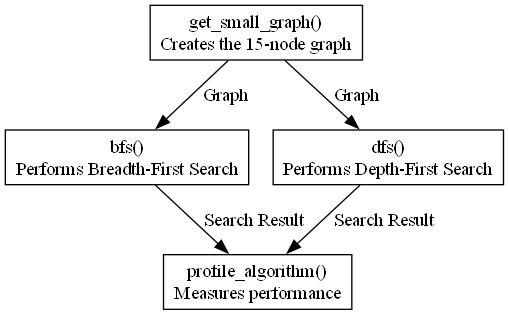
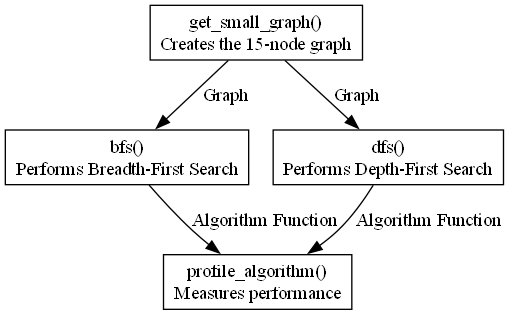
Finalize SLA3 C4 architecture

Changed region(s): [[0.2947, 0.5714, 1.0, 0.8]]

diff --git a/SLA3_25UAM029/code/c2_container.py b/SLA3_25UAM029/code/c2_container.py
@@ -9,24 +9,14 @@ dot = Digraph("C2_Container")
 dot.node("Input", "Graph & Input Setup", shape="box")
 dot.node("BFS", "BFS Search", shape="box")
 dot.node("DFS", "DFS Search", shape="box")
-dot.node("State", "Search State Management", shape="box")
 dot.node("Profile", "Performance Profiling\n& Output", shape="box")
 
 # Flow
 dot.edge("Input", "BFS", label="Graph, Start, Target")
 dot.edge("Input", "DFS", label="Graph, Start, Target")
 
-dot.edge("BFS", "State", label="Visited\nNodes Expanded")
-dot.edge("DFS", "State", label="Visited\nNodes Expanded")
-
-dot.edge("State", "Profile", label="Search Data")
-
-# Output
-dot.edge(
-    "Profile",
-    "Input",
-    label="Search Result\nBest / Average / Worst Time"
-)
+dot.edge("BFS", "Profile", label="Search Result")
+dot.edge("DFS", "Profile", label="Search Result")
 
 # Generate diagram
 dot.render(

diff --git a/SLA3_25UAM029/code/c3_component.py b/SLA3_25UAM029/code/c3_component.py
@@ -16,15 +16,12 @@ dot.node("Target", "Target Node Check", shape="box")
 # BFS flow
 dot.edge("BFS", "Queue", label="Uses")
 dot.edge("Queue", "Visited", label="Processes Nodes")
+dot.edge("BFS", "Target", label="Checks")
 
 # DFS flow
 dot.edge("DFS", "Stack", label="Uses")
 dot.edge("Stack", "Visited", label="Processes Nodes")
-
-# Common search operations
-dot.edge("Visited", "Target", label="Checks")
-dot.edge("Target", "BFS", label="Search Result")
-dot.edge("Target", "DFS", label="Search Result")
+dot.edge("DFS", "Target", label="Checks")
 
 # Generate diagram
 dot.render(

diff --git a/SLA3_25UAM029/code/c4_code.py b/SLA3_25UAM029/code/c4_code.py
@@ -34,8 +34,8 @@ dot.node(
 dot.edge("Graph", "BFS", label="Graph")
 dot.edge("Graph", "DFS", label="Graph")
 
-dot.edge("BFS", "Profile", label="Search Result")
-dot.edge("DFS", "Profile", label="Search Result")
+dot.edge("BFS", "Profile", label="Algorithm Function")
+dot.edge("DFS", "Profile", label="Algorithm Function")
 
 # Generate diagram
 dot.render(

diff --git a/SLA3_25UAM029/README.md b/SLA3_25UAM029/README.md
@@ -1,85 +1,135 @@
 # SLA3 - Full C4 Architecture Design
 
 ## Project Title
-BFS vs DFS Graph Search and Performance Profiling System
+
+**BFS vs DFS Graph Search and Performance Profiling System**
 
 ## Student Details
-- Name: Ojas Yashwant Kate
-- PRN: 25UAM029
-- Class: SY B.Tech CSE (AI & ML)
-- Subject: Introduction to Artificial Intelligence
+
+* **Name:** Ojas Yashwant Kate
+* **PRN:** 25UAM029
+* **Class:** SY B.Tech CSE (AI & ML)
+* **Subject:** Introduction to Artificial Intelligence
+
+---
 
 ## 1. System Description
 
-This system performs BFS and DFS graph search on a small 15-node graph.
-It takes a graph, start node, target node, and search algorithm as inputs.
-The system performs the selected search and tracks the number of nodes expanded.
-It also measures the best, average, and worst execution time of BFS and DFS.
-The architecture is represented using all four levels of the C4 model.
+The **BFS vs DFS Graph Search and Performance Profiling System** performs Breadth-First Search (BFS) and Depth-First Search (DFS) on a small 15-node graph.
+
+The system takes a graph, start node, target node, and search algorithm as inputs. It performs the selected search and tracks the number of nodes expanded.
+
+The system also measures the **best, average, and worst execution time** of BFS and DFS for performance comparison.
+
+The architecture of the system is represented using all four levels of the **C4 model: Context, Container, Component, and Code**.
+
+---
 
 ## 2. C4 Architecture
 
-### C1 - Context
-Shows the interaction between the user and the BFS/DFS Graph Search
-and Performance Profiling System.
+### C1 - Context Diagram
 
-Diagram:
+The C1 Context Diagram shows the interaction between the **User** and the **BFS/DFS Graph Search and Performance Profiling System**.
+
+The user provides the graph, start node, target node, and selects BFS or DFS. The system returns the search result, number of nodes expanded, and performance results.
+
+**Diagram:**
 `diagrams/c1_context_diagram.png`
 
-### C2 - Container
-Shows the major logical containers of the system:
+---
 
-1. Graph & Input Setup
-2. BFS Search
-3. DFS Search
-4. Search State Management
-5. Performance Profiling & Output
+### C2 - Container Diagram
 
-Diagram:
+The C2 Container Diagram shows the major logical parts of the system:
+
+1. **Graph & Input Setup**
+2. **BFS Search**
+3. **DFS Search**
+4. **Performance Profiling & Output**
+
+The Graph & Input Setup provides the graph, start node, and target node to the BFS and DFS search containers. The search results are then passed to the Performance Profiling & Output container.
+
+**Diagram:**
 `diagrams/c2_container_diagram.png`
 
-### C3 - Component
-Shows the internal components of the main BFS/DFS Search Engine:
+---
 
-1. BFS Algorithm
-2. DFS Algorithm
-3. Queue Management
-4. Stack Management
-5. Visited Node Tracking & Node Expansion
-6. Target Node Check
+### C3 - Component Diagram
 
-Diagram:
+The C3 Component Diagram shows the internal components of the BFS/DFS Search Engine:
+
+1. **BFS Algorithm**
+2. **DFS Algorithm**
+3. **Queue Management (BFS)**
+4. **Stack Management (DFS)**
+5. **Visited Node Tracking & Node Expansion**
+6. **Target Node Check**
+
+BFS uses a queue for breadth-first traversal, while DFS uses a stack for depth-first traversal. Both algorithms track visited nodes, count expanded nodes, and check the target node.
+
+**Diagram:**
 `diagrams/c3_component_diagram.png`
 
-### C4 - Code
-Shows the main functions used in the implementation:
+---
 
-- `get_small_graph()` - Creates the 15-node graph.
-- `bfs()` - Performs Breadth-First Search.
-- `dfs()` - Performs Depth-First Search.
-- `profile_algorithm()` - Measures search performance.
+### C4 - Code Diagram
 
-Diagram:
+The C4 Code Diagram shows the main functions used in the actual implementation:
+
+* **`get_small_graph()`** - Creates the 15-node graph.
+* **`bfs()`** - Performs Breadth-First Search.
+* **`dfs()`** - Performs Depth-First Search.
+* **`profile_algorithm()`** - Measures the performance of the search algorithms.
+
+The `profile_algorithm()` function receives BFS or DFS as the algorithm function and measures its execution time.
+
+**Diagram:**
 `diagrams/c4_code_diagram.png`
+
+---
 
 ## 3. Design Decisions
 
-- BFS and DFS are kept as separate search algorithms for direct comparison.
-- A small 15-node graph is used so that the search process is easy to understand.
-- A visited set is used to track explored nodes.
-- Performance profiling is separated from the search logic.
-- The C4 architecture is based on the actual functions used in the implementation.
+* BFS and DFS are implemented as separate search functions for direct comparison.
+* A small **15-node graph** is used to make the search process easy to understand and analyze.
+* BFS uses a **queue (`deque`)** for traversal.
+* DFS uses a **stack** for traversal.
+* A **visited set** is used to avoid processing the same node repeatedly.
+* The number of **nodes expanded** is tracked during the search.
+* Performance profiling is separated from the search algorithms using `profile_algorithm()`.
+* The C4 architecture is based on the **actual functions and logic used in the implementation**.
 
-## 4. Relation with SLE-2
+---
 
-SLE-2 experimentally profiled BFS and DFS using the same 15-node graph.
-The SLE-3 architecture describes the structure of the system used for
-that performance analysis.
+## 4. Relation with SLA2
+
+The SLA2 project experimentally compared **BFS and DFS performance** using the same 15-node graph.
+
+The SLA3 architecture represents the structure of the system used for that performance analysis.
+
+The C4 model provides a structured view of the same implementation at four levels:
+
+* **C1:** System and user interaction
+* **C2:** Major system containers
+* **C3:** Internal search components
+* **C4:** Main implementation functions
+
+---
 
 ## 5. Conclusion
 
-The full C4 model provides four levels of architectural understanding:
-Context, Container, Component, and Code. It shows how the user interacts
-with the system, how the system is divided into logical containers,
-how the search engine is internally organized, and which main functions
-implement the system.
+The full C4 architecture provides four levels of understanding of the BFS/DFS Performance Profiling System.
+
+The **C1 diagram** shows the system and its interaction with the user. The **C2 diagram** shows the major logical containers. The **C3 diagram** explains the internal components of the BFS/DFS search engine. The **C4 diagram** shows the main functions used in the actual implementation.
+
+This architecture provides a clear connection between the system requirements, design, and the implementation developed during SLA2.
+
+---
+
+## 6. AI Contribution
+
+AI assistance was used for architectural organization, documentation, and reviewing the C4 diagrams.
+
+The final architecture was reviewed against the actual BFS/DFS implementation before inclusion in the project.
+
+The diagrams were generated using **Graphviz** and verified for consistency with the implemented functions and relationships.

diff --git a/SLA3_25UAM029/AI_CONTRIBUTION_LOG.md b/SLA3_25UAM029/AI_CONTRIBUTION_LOG.md
@@ -1,39 +1,56 @@
 # AI Contribution Log
 
 ## Project
+
 BFS vs DFS Graph Search and Performance Profiling System
 
 ## AI Tool Used
+
 ChatGPT
 
 ## Contribution
 
-AI assistance was used during the architectural design and documentation
-of the SLE-3 project.
+AI assistance was used during the architectural design, documentation, and review of the SLA3 project.
 
 ### C1 - Context
-AI helped structure the context diagram by identifying the user, system,
-inputs, and outputs.
+
+AI helped structure the context diagram by identifying the user, system, inputs, and outputs.
 
 ### C2 - Container
-AI helped organize the system into logical containers such as Graph & Input
-Setup, BFS Search, DFS Search, Search State Management, and Performance
-Profiling & Output.
+
+AI helped organize the system into logical containers based on the actual implementation:
+
+* Graph & Input Setup
+* BFS Search
+* DFS Search
+* Performance Profiling & Output
 
 ### C3 - Component
-AI helped identify the main internal components of the BFS/DFS Search Engine,
-including queue management, stack management, visited node tracking,
-node expansion, and target node checking.
+
+AI helped identify the main internal components of the BFS/DFS Search Engine, including:
+
+* BFS Algorithm
+* DFS Algorithm
+* Queue Management (BFS)
+* Stack Management (DFS)
+* Visited Node Tracking & Node Expansion
+* Target Node Check
 
 ### C4 - Code
+
 AI helped organize the existing implementation into a code-level overview.
-The functions represented in the C4 diagram are based on the actual project
-implementation.
+
+The functions represented in the C4 diagram are based on the actual project implementation:
+
+* `get_small_graph()`
+* `bfs()`
+* `dfs()`
+* `profile_algorithm()`
 
 ## Student Contribution
 
-The student reviewed, adapted, and implemented the architecture and diagrams
-according to the project requirements. The generated diagrams were created
-using Graphviz and verified locally.
+The student reviewed, adapted, and implemented the architecture and diagrams according to the project requirements.
+
+The diagrams were generated using Graphviz and verified against the actual BFS/DFS implementation.
 
 AI suggestions were reviewed before being included in the project.
